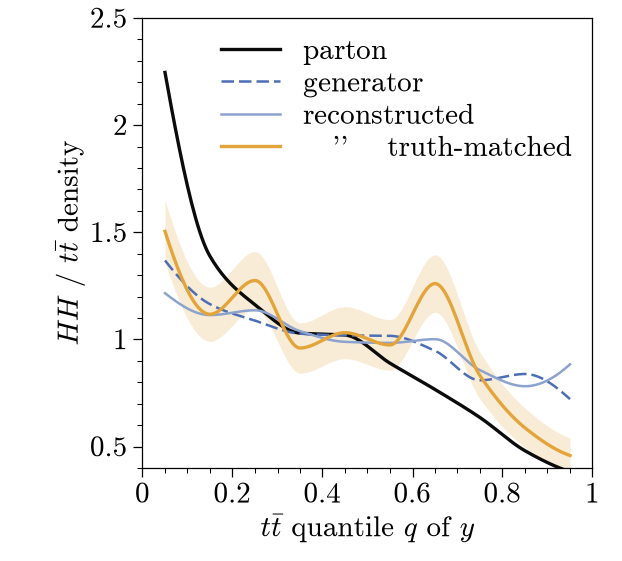
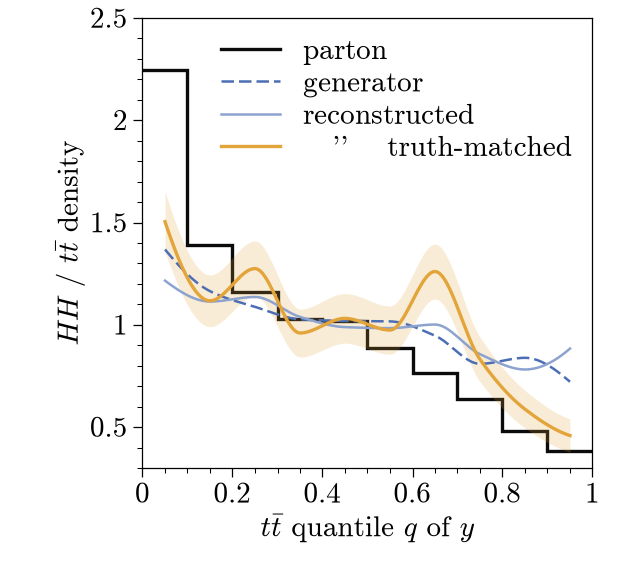
Fig. 8: parton as a histogram
Claude-Session: https://claude.ai/code/session_01FSjXgdaswEHfxoteyCtD3a

diff --git a/study_truthmatch/paper_figs_matched.py b/study_truthmatch/paper_figs_matched.py
@@ -196,13 +196,16 @@ def fig_levels(y_matched, path):
         # histograms in bins of 0.1 in q, drawn as smooth (shape-preserving) curves through the bin centres
         from scipy.interpolate import PchipInterpolator
         qq = np.linspace(qc[0], qc[-1], 200)
-        ax2.plot(qq, PchipInterpolator(qc, h)(qq), color=col, ls=ls, lw=lw)
+        if key == "parton":                         # the reference: as a histogram
+            ax2.stairs(h, q_edges, color=col, ls=ls, lw=lw, baseline=None)
+        else:
+            ax2.plot(qq, PchipInterpolator(qc, h)(qq), color=col, ls=ls, lw=lw)
         if key == "matched":
             ax2.fill_between(qq, PchipInterpolator(qc, h - err)(qq), PchipInterpolator(qc, h + err)(qq),
                              color=col, alpha=0.2, lw=0)
     ax2.legend(loc="upper right", handlelength=2.0, labelspacing=0.2, borderaxespad=0.3)
     ax2.set_xlim(0, 1)
-    ax2.set_ylim(0.4, 2.5)
+    ax2.set_ylim(0.3, 2.5)
     ax2.set_xlabel(r"$t\bar{t}$ quantile $q$ of $y$")
     ax2.set_ylabel(r"$HH$ / $t\bar{t}$ density")
     for ax in (ax2,):
